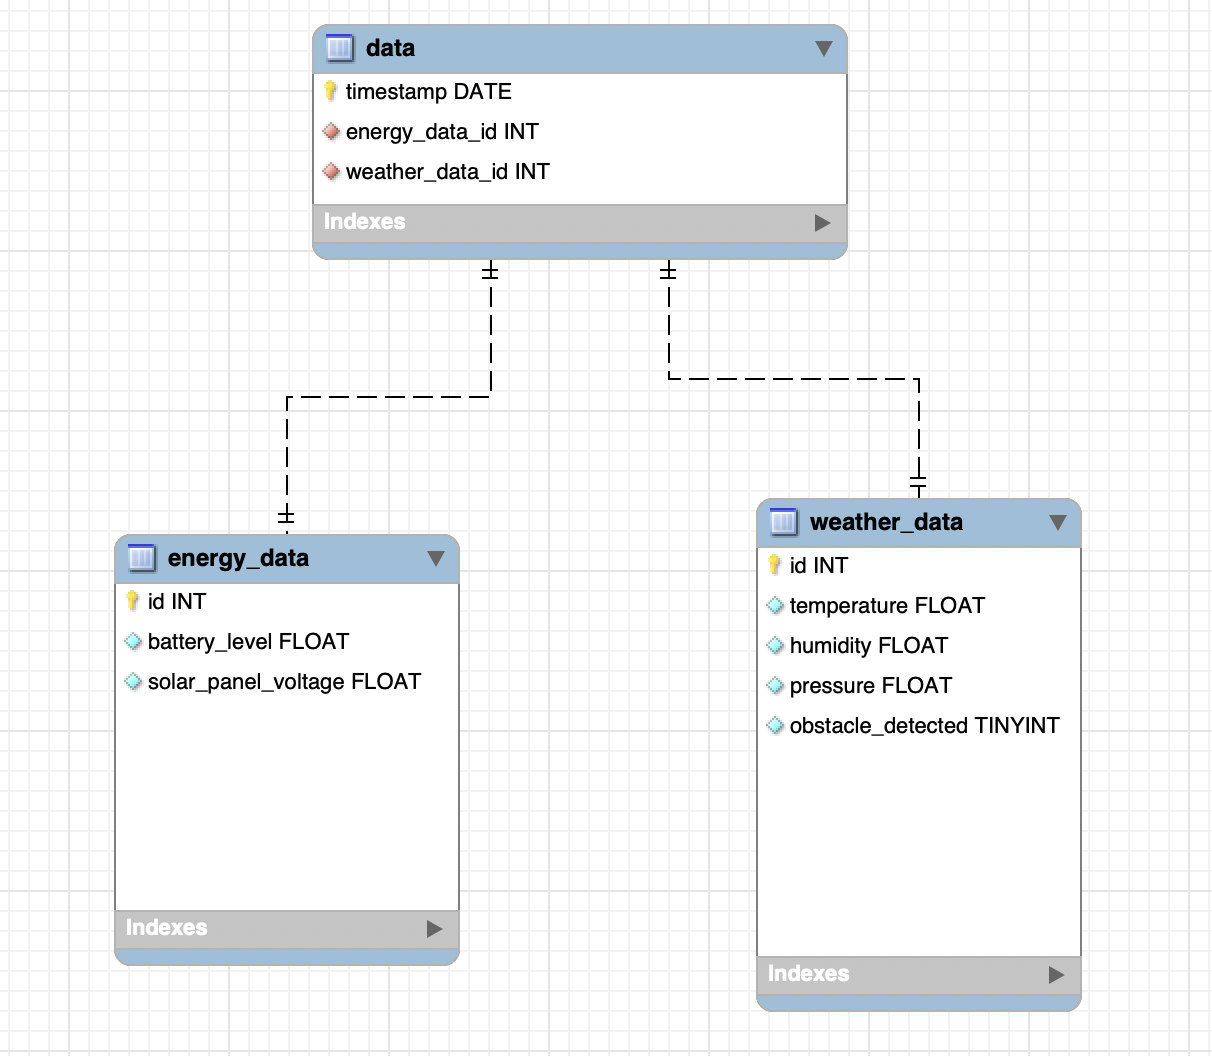
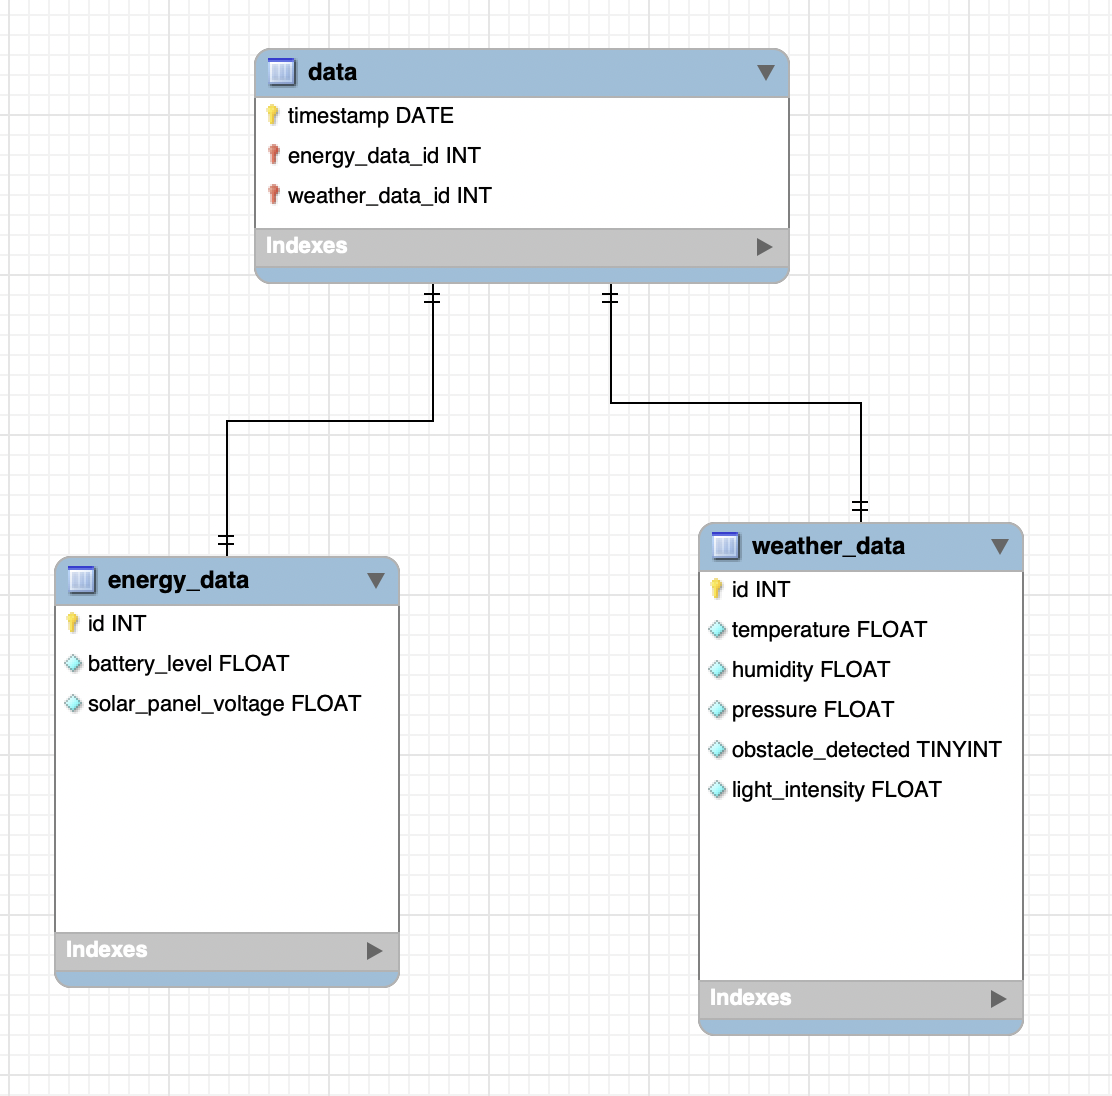
Fixed some of my mistakes and restructed/renamed

diff --git a/docs/db.md b/docs/db.md
@@ -1,7 +1,7 @@
 //maybe rename the page to backend.md
 
-# Database
-## Structure
+# __Database__
+## __Structure__
 
 ### __Table: data__
 - __timestamp__ (integer, primary key): unique identifier for each record</br>
@@ -31,17 +31,13 @@
 ### __ER diagram__
 
 ![Screenshot](docs/../images/er_diagram.png)
-//Because appearntly MySQL Workbench is very buggy and old, I can't change some of the column's datatype
-__
+__This is a 1:1 relationship between data table and weather/energy table. Could also be summarized in only one table, but in my opinion it is better structured this way__
+//Because appearntly MySQL Workbench is very buggy and old, I can't change some of the column's datatypes
+
+
 ## __Rebuild script__
 
 ```sql
-
-DROP DATABASE IF EXISTS `mydb`;
-
-CREATE DATABASE IF NOT EXISTS `mydb`;
-
-USE `mydb`;
 
 DROP TABLE IF EXISTS `data`;
 DROP TABLE IF EXISTS `energy_data`;
@@ -51,7 +47,7 @@ CREATE TABLE IF NOT EXISTS `mydb`.`data` (
   `timestamp` DATE NOT NULL,
   `energy_data_id` INT NOT NULL,
   `weather_data_id` INT NOT NULL,
-  PRIMARY KEY (`timestamp`),
+  PRIMARY KEY (`timestamp`, `energy_data_id`, `weather_data_id`),
   INDEX `fk_data_energy_data_idx` (`energy_data_id` ASC) VISIBLE,
   INDEX `fk_data_weather_data1_idx` (`weather_data_id` ASC) VISIBLE,
   CONSTRAINT `fk_data_energy_data`
@@ -63,27 +59,25 @@ CREATE TABLE IF NOT EXISTS `mydb`.`data` (
     FOREIGN KEY (`weather_data_id`)
     REFERENCES `mydb`.`weather_data` (`id`)
     ON DELETE NO ACTION
-    ON UPDATE NO ACTION
-);
+    ON UPDATE NO ACTION)
 
 CREATE TABLE IF NOT EXISTS `mydb`.`energy_data` (
   `id` INT NOT NULL AUTO_INCREMENT,
   `battery_level` FLOAT NOT NULL,
   `solar_panel_voltage` FLOAT NOT NULL,
-  PRIMARY KEY (`id`)
-);
+  PRIMARY KEY (`id`))
 
 CREATE TABLE IF NOT EXISTS `mydb`.`weather_data` (
   `id` INT NOT NULL,
   `temperature` FLOAT NOT NULL,
   `humidity` FLOAT NOT NULL,
   `pressure` FLOAT NOT NULL,
-  `obstacle_detected` TINYINT NOT NULL,
-  `light_intensity` FLOAT NULL,
-  PRIMARY KEY (`id`, `obstacle_detected`)
-);
+  `obstacle_detected` BOOLEAN NOT NULL,
+  `light_intensity` FLOAT NOT NULL,
+  PRIMARY KEY (`id`))
+  
+ENGINE = InnoDB
 
-ENGINE = InnoDB;
 
 ```
 
